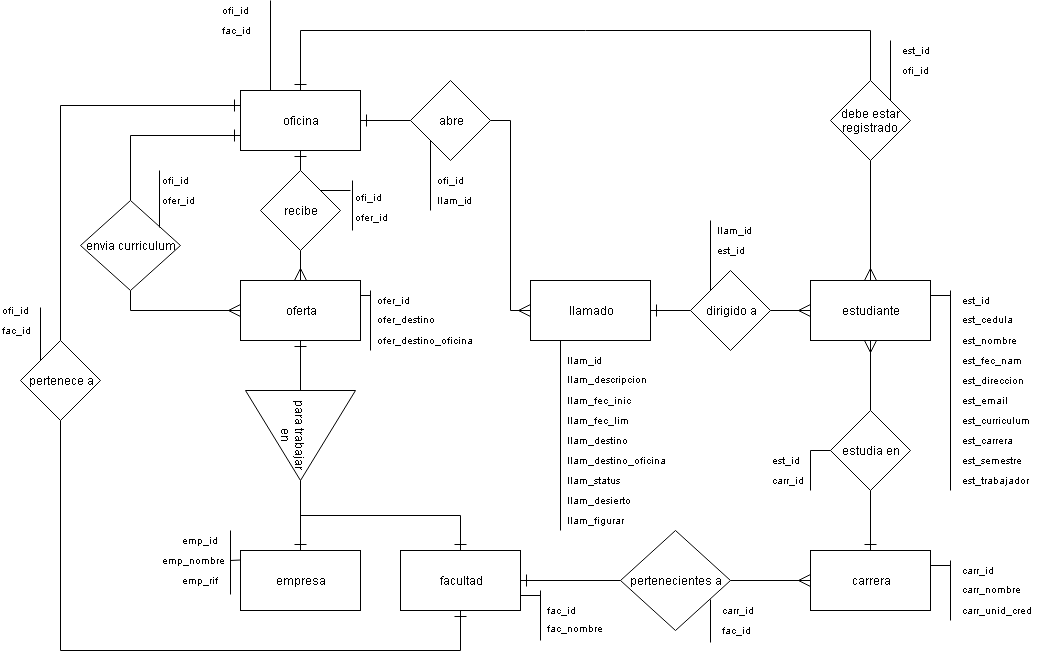
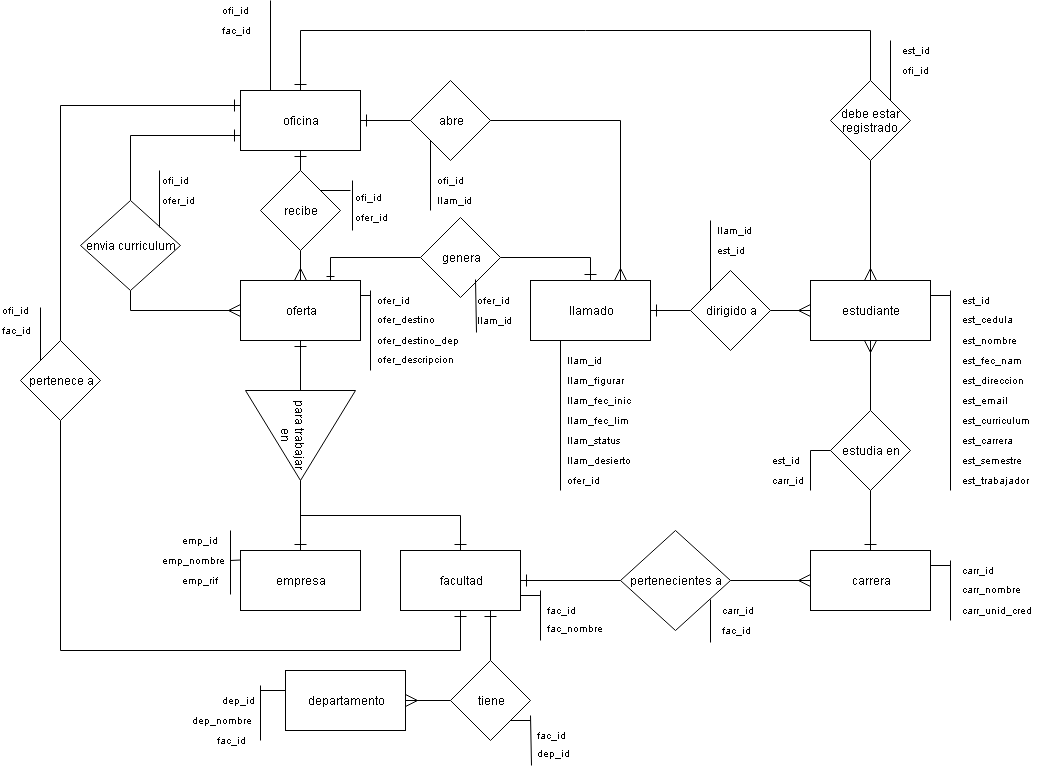
completado CRUD de facultad, formulario de registro de oferta

diff --git a/application/views/departamento/index.php b/application/views/departamento/index.php
@@ -1,5 +1,5 @@
 <!-- main-heading -->
-<h2 class="main-title-w3layouts mb-2 text-center">Facultades</h2>
+<h3 class="main-title-w3layouts mb-2 text-center">Departamentos de la facultad <?php echo $facultad["fac_nombre"];?></h3>
 <!--// main-heading -->
 <?php if (isset($response)) { ?>
 	<div class="col-md-6 offset-md-3 space-bot-md">
@@ -14,11 +14,20 @@
 		</div>
 	</div>			
 <?php } ?>
+
 <!-- Tables content -->
-<section class="tables-section">
+<section class="tables-section">	
     <!-- table1 -->
     <div class="outer-w3-agile mt-3">
-
+		<div class="form-control">
+			<div class="row">
+				<div class="col-md-12">
+					<div class="btn-group">
+						<a href="#" class="btn btn-primary">+ Agregar departamento</a>
+					</div>
+				</div>
+			</div>
+		</div>
 		<table class="table">
 	        <thead class="thead-dark">
 	            <tr>
@@ -27,15 +36,13 @@
 	            </tr>
 	        </thead>
 	        <tbody>
-	        	<?php foreach ($facultades as $facultad): ?>
+	        	<?php foreach ($departamentos as $departamento): ?>
 	                <tr>
-	                    <th scope="row"><?php echo $facultad['fac_nombre'] ?></th>	
+	                    <th scope="row"><?php echo $departamento['dep_nombre'] ?></th>	
 	                    <td>
 	                    	<div class="btn-group">
-	                    		<a href="<?php echo base_url(); ?>index.php/Departamento/index/<?php echo $facultad['fac_id'];?>" class="btn btn-sm btn-default">Departamentos</a>
-	                    		<a href="<?php echo base_url(); ?>index.php/Oferta/create/<?php echo $facultad['fac_id'];?>/facultad" class="btn btn-sm btn-primary">Simular Oferta</a>
-	                    		<a href="<?php echo base_url(); ?>index.php/Facultad/edit/<?php echo $facultad['fac_id'];?>" class="btn btn-sm btn-warning">Editar</a>
-	                    		<a href="<?php echo base_url(); ?>index.php/Facultad/confirm_delete/<?php echo $facultad['fac_id'];?>" class="btn btn-sm btn-danger">Eliminar</a>
+	                    		<a href="<?php echo base_url(); ?>index.php/Departamento/edit/<?php echo $departamento['fac_id'];?>" class="btn btn-sm btn-warning">Editar</a>
+	                    		<a href="<?php echo base_url(); ?>index.php/Departamento/confirm_delete/<?php echo $departamento['fac_id'];?>" class="btn btn-sm btn-danger">Eliminar</a>
 	                    	</div>
 	                    </td>
 	                </tr>

diff --git a/application/views/oferta/create_facultad.php b/application/views/oferta/create_facultad.php
@@ -1,0 +1,49 @@
+<!-- main-heading -->
+<h3 class="main-title-w3layouts mb-2 text-center">Formulario de Registro de Oferta de Facultad</h3>
+<!--// main-heading -->
+<?php if (isset($response)) { ?>
+	<div class="col-md-6 offset-md-3 space-bot-md">
+		<div class="alert alert-success">
+			<p><b><?php echo $response;?></b></p>
+		</div>
+	</div>			
+<?php } else if (isset($errors)) { ?>
+	<div class="col-md-6 offset-md-3 space-bot-md">
+		<div class="alert alert-danger">
+			<p><b><?php echo $errors;?></b></p>
+		</div>
+	</div>
+<?php } ?>
+<div class="form-body-w3-agile text-center w-lg-50 w-sm-75 w-100 mx-auto mt-5">
+	<form action="<?php echo base_url(); ?>index.php/Facultad/store" method="post">
+	    <div class="form-group">
+	    	<div class="row">
+	    		<div class="col-md-12">
+	    			<label>Oferta registrada por</label>
+	        		<input type="text" class="form-control" placeholder="Ingresa Nombre de la facultad" name="ofer_destino" value="<?php echo $facultad["fac_nombre"] ;?>" readonly="">
+	    		</div>	    		
+	    	</div>	
+	    	<div class="row">
+	    		<div class="col-md-12">
+	    			<label>Selecciona un Departamento</label>
+	        		<select name="ofer_destino_dep" id="ofer_destino_dep" class="form-control" required="">
+	        			<option disabled selected value>Selecciona un Departamento</option>
+	        			<?php foreach ($departamentos as $departamento ) { ?>
+	        			<option value="<?php echo $departamento['dep_id']; ?>"><?php echo $departamento['dep_nombre']; ?></option>	
+	        			<?php } ?>
+	        		</select>
+	    		</div>	    		
+	    	</div>
+	    	<div class="row">
+	    		<div class="col-md-12">
+	    			<label>Descripción</label>
+	        		<input type="text" class="form-control" placeholder="Breve descripción de la oferta" name="ofer_descripcion" value="" required="">
+	    		</div>	    		
+	    	</div>        
+	    </div>   
+
+	    <button type="submit" class="btn btn-success mt-sm-5 mt-3 px-4">Registrar</button>
+	</form>
+</div>
+
+		

diff --git a/application/controllers/Oferta.php b/application/controllers/Oferta.php
@@ -1,14 +1,16 @@
 <?php
 /**
- * Controlador de Facultad.
+ * Controlador de Oferta.
  */
-class Facultad extends CI_Controller
+class Oferta extends CI_Controller
 {
 	
 	function __construct()
 	{
 		parent::__construct();
+		//$this->load->model('MOferta');
 		$this->load->model('MFacultad');
+		$this->load->model('MDepartamento');
 		$this->load->helper('url');
 	}
 	/*
@@ -22,13 +24,21 @@ class Facultad extends CI_Controller
 		$this->load->view('layouts/bottom');
 	}
 	/*
-	* Método create, para mostrar formulario de registro de facultad
-	*
+	* Método create, para mostrar formulario de registro de oferta
+	* @param destino: el id del destino en concreto, tipo: puede ser facultad o empresa
 	*/
-	public function create(){
+	public function create($destino,$tipo){
 		$this->load->view('layouts/top');
-		$this->load->view('facultad/create');
+		if($tipo == "facultad")
+		{
+			$data['facultad'] = $this->MFacultad->get_facultades($destino);			
+			$data['departamentos'] = $this->MDepartamento->get_departamentos($destino);	
+			$this->load->view('oferta/create_facultad',$data);
+		}							
+		else	
+			$this->load->view('oferta/create_empresa');		
 		$this->load->view('layouts/bottom');
+		
 	}
 	/*
 	* Método store, para guardar los datos de la facultad
@@ -43,11 +53,10 @@ class Facultad extends CI_Controller
 		$query = $this->db->get_where('facultad', array('fac_nombre' => $this->input->post("fac_nombre")));
 		if(empty($query->row()))
 		{
-			$this->MFacultad->guardar($paramFacultad);	
-			$data['facultades'] = $this->MFacultad->get_facultades();	
+			$this->MFacultad->guardar($paramFacultad);		
 			$data['response'] = 'La facultad ha sido registrada satisfactoriamente';
 			$this->load->view('layouts/top');
-	       	$this->load->view('facultad/index',$data);
+	       	$this->load->view('facultad/create', $data);
 	       	$this->load->view('layouts/bottom');	
 		}
 		else

diff --git a/application/views/oferta/create_empresa.php b/application/views/oferta/create_empresa.php
@@ -1,5 +1,5 @@
 <!-- main-heading -->
-<h3 class="main-title-w3layouts mb-2 text-center">Formulario de Registro de Oferta</h3>
+<h3 class="main-title-w3layouts mb-2 text-center">Formulario de Registro de Oferta de Empresa</h3>
 <!--// main-heading -->
 <?php if (isset($response)) { ?>
 	<div class="col-md-6 offset-md-3 space-bot-md">
@@ -19,10 +19,16 @@
 	    <div class="form-group">
 	    	<div class="row">
 	    		<div class="col-md-12">
-	    			<label>Nombre de la facultad</label>
-	        		<input type="text" class="form-control" placeholder="Ingresa Nombre de la facultad" name="fac_nombre" value="">
+	    			<label>Oferta registrada por</label>
+	        		<input type="text" class="form-control" placeholder="Ingresa Nombre de la empresa" name="ofer_destino" value="" readonly="">
 	    		</div>	    		
-	    	</div>	        
+	    	</div>	
+	    	<div class="row">
+	    		<div class="col-md-12">
+	    			<label>Descripción</label>
+	        		<input type="text" class="form-control" placeholder="Breve descripción de la oferta" name="ofer_descripcion" value="">
+	    		</div>	    		
+	    	</div>        
 	    </div>    
 
 	    <button type="submit" class="btn btn-success mt-sm-5 mt-3 px-4">Registrar</button>

diff --git a/application/models/MTelefonos.php b/application/models/MTelefonos.php
@@ -24,33 +24,6 @@ class MTelefonos extends CI_Model
 		$query = $this->db->get_where('telefonos', array('telefonos.tel_id' => $tel_id));
 	    return $query->row_array();
 	}
-	/*
-	public function update($id) 
-    {
-    	
-    	$data1=array(
-    		'clave' => sha1($this->input->post('clave')),    		
-            'usr_fec_actualizacion' => date("Y-m-d"), 
-        );
-        $data2=array(
-        	'email' => $this->input->post('email'),            
-            'nombre' => $this->input->post('nombre'),
-            'appaterno' => $this->input->post('appaterno'),
-            'apmaterno' => $this->input->post('apmaterno'),
-            'dni' => $this->input->post('dni'),
-            'direccion' => $this->input->post('direccion'),
-        );
-        $this->db->where('idUsuario', $id);
-		$this->db->update('usuario', $data1);
-
-		$this->db->where('idPersona', $this->input->post('idPersona'));		
-       	return $this->db->update('persona', $data2);
-    }
-
-    public function delete($id)
-    {
-    	return $this->db->delete('usuario', array('idUsuario' => $id));
-    }
-    */
+	
 }
  ?>

diff --git a/application/controllers/Departamento.php b/application/controllers/Departamento.php
@@ -1,0 +1,37 @@
+<?php
+/**
+ * Controlador de Departamentos
+ */
+class Departamento extends CI_Controller
+{
+	
+	function __construct()
+	{
+		parent::__construct();
+		$this->load->model('MFacultad');
+		$this->load->model('MDepartamento');
+		$this->load->helper('url');
+	}
+	/*
+	* Método index, para mostrar una pagina de inicio
+	*
+	*/
+	public function index($fac_id){
+		$data['facultad'] = $this->MFacultad->get_facultades($fac_id);	
+		$data['departamentos'] = $this->MDepartamento->get_departamentos($fac_id);	
+
+		$this->load->view('layouts/top');
+		$this->load->view('departamento/index',$data);
+		$this->load->view('layouts/bottom');
+	}
+	/*
+	* Método para el mostrar el formulario de registro de departamentos
+	*
+	*/
+	public function create(){
+		$this->load->view('layouts/top');
+		$this->load->view('estudiantes/create');
+		$this->load->view('layouts/bottom');
+	}
+}
+?>

diff --git a/application/models/MDepartamento.php b/application/models/MDepartamento.php
@@ -1,0 +1,31 @@
+<?php 
+/**
+ * 
+ */
+class MDepartamento extends CI_Model
+{
+	
+	function __construct()
+	{
+		parent::__construct();
+	}	
+	public function get_departamentos($fac_id = FALSE)
+	{
+		if ($fac_id === FALSE)
+	    {
+	        $query = $this->db->get('departamento');
+	        return $query->result_array();
+	    }
+		$query = $this->db->get_where('departamento', array('departamento.fac_id' => $fac_id));
+		if(empty($query->row_array()))
+	    	return array();
+		else
+			return $query->row_array();
+	    
+	}
+	public function guardar($paramDeàrtamento){
+		$this->db->insert("departamento",$paramDeàrtamento);
+		return $this->db->insert_id();
+	}
+}
+?>

diff --git a/application/models/MFacultad.php b/application/models/MFacultad.php
@@ -25,7 +25,7 @@ class MFacultad extends CI_Model
 	        return $query->result_array();
 	    }
 		$query = $this->db->get_where('facultad', array('facultad.fac_id' => $fac_id));
-	    return $query->row_array();
+		return $query->row_array();
 	}
 
 	public function update($fac_id) 
